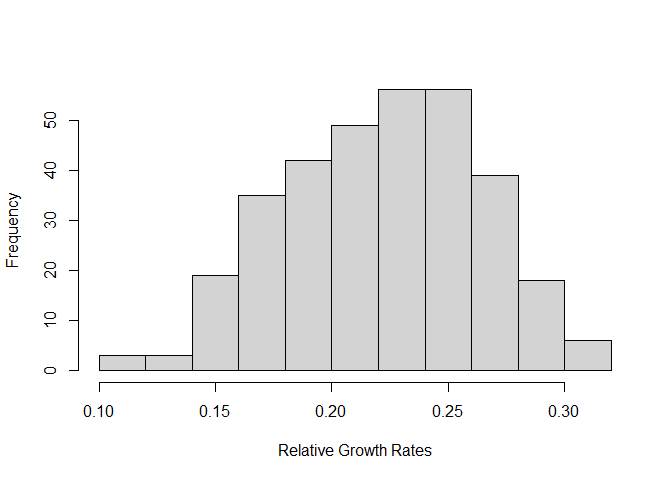
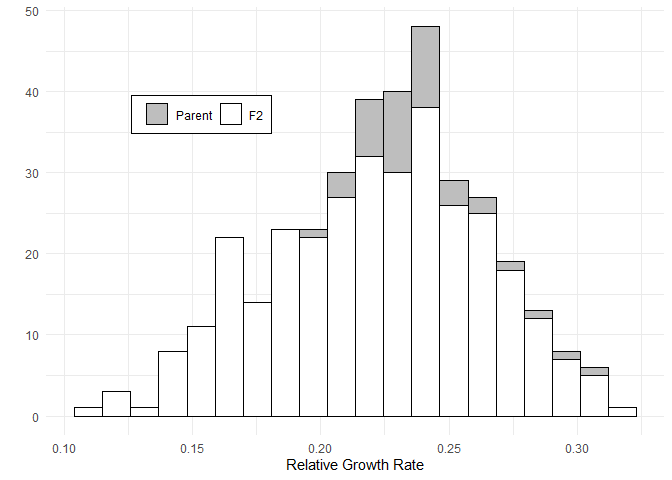
updated readme

diff --git a/README.md b/README.md
@@ -21,14 +21,33 @@ pak::pak("KnechtTheDots/LonCalGrowthAnalysis")
 
 ## Example
 
-This is a basic example which shows you how to solve a common problem:
+We can see that the distribution of parental relative growth rates (RGR)
+is on the upper portion of the F2 RGRs. The purpose of this project is
+to learn something about the genetic architecture and if it contributes
+to reproductive isolation between the parents.
 
 ``` r
 library(LonCalGrowthAnalysis)
-# The phenotypes data set includes seedling phenotypese for 418 seedlings. 
+library(tidyverse)
+# The phenotypes data set includes seedling phenotypes for 418 seedlings. 
 # For example here is the distribution of F2 relative growth rates
 
-hist(phenotypes$rgr[phenotypes$line=="F2"], main = "", xlab = "Relative Growth Rates")
+phenotypes %>% 
+  drop_na(rgr) %>% 
+  filter(line != "F1") %>% 
+  mutate(line = ifelse(line == "F2", "F2", "Parent"),
+         line = factor(line, levels = c("Parent", "F2"))) %>% 
+  ggplot(aes(x = rgr, fill = line)) +
+  geom_histogram(bins = 20, color = "black") +
+  scale_fill_manual(values = c("grey", "white")) +
+  labs(x = "Relative Growth Rate",
+       y = "",
+       fill = "") +
+  theme_minimal() +
+  theme(legend.position = "inside",
+        legend.position.inside = c(.25, .75),
+        legend.direction = "horizontal",
+        legend.box.background = element_rect(color = "black"))
 ```
 
 <img src="man/figures/README-example-1.png" width="100%" />
